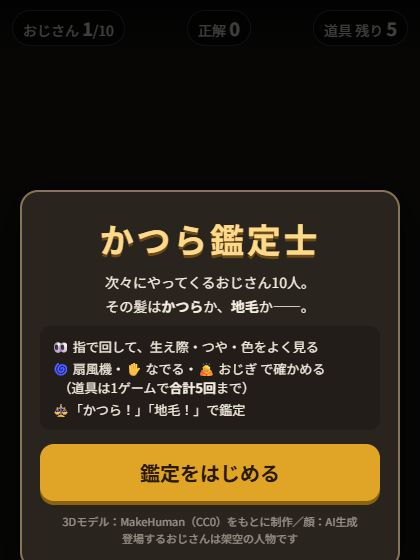
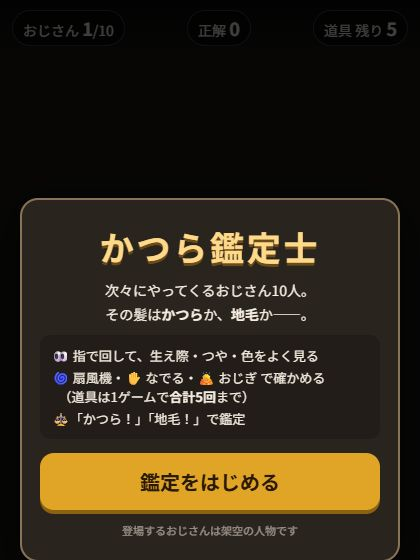
自動公開 / 更新: かつら鑑定士

diff --git a/apps/katsura-kanteishi/index.html b/apps/katsura-kanteishi/index.html
@@ -116,7 +116,7 @@ button{font:inherit;color:inherit;border:0;cursor:pointer}
     </div>
     <div class="seen" id="seen" hidden></div>
     <button class="big" id="bStart">鑑定をはじめる</button>
-    <div class="credit">3Dモデル：MakeHuman（CC0）をもとに制作／顔：AI生成<br>登場するおじさんは架空の人物です</div>
+    <div class="credit">登場するおじさんは架空の人物です</div>
   </div>
 </div>
 
